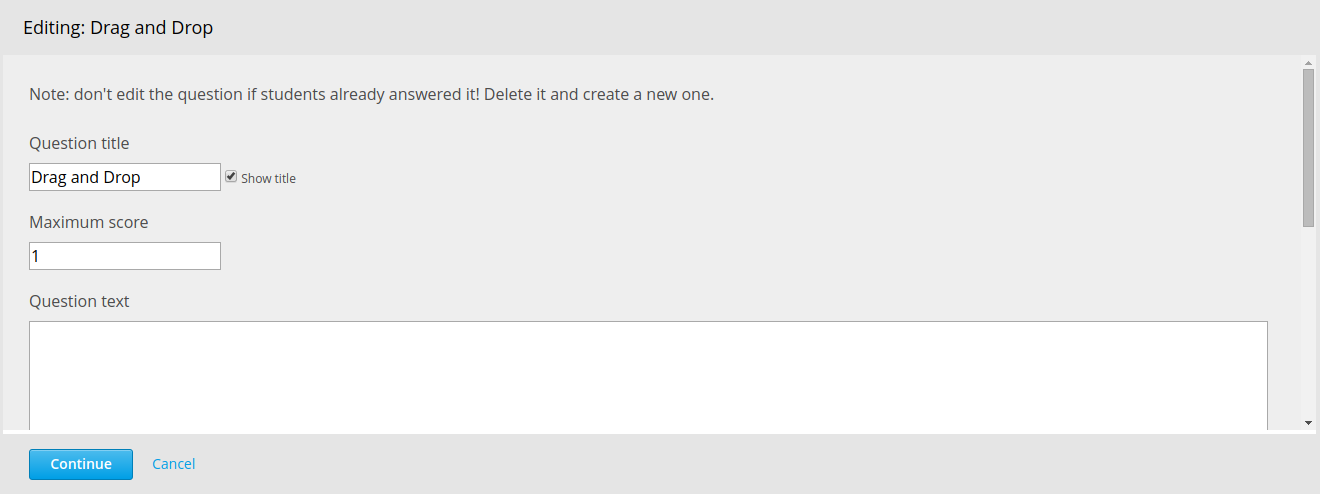
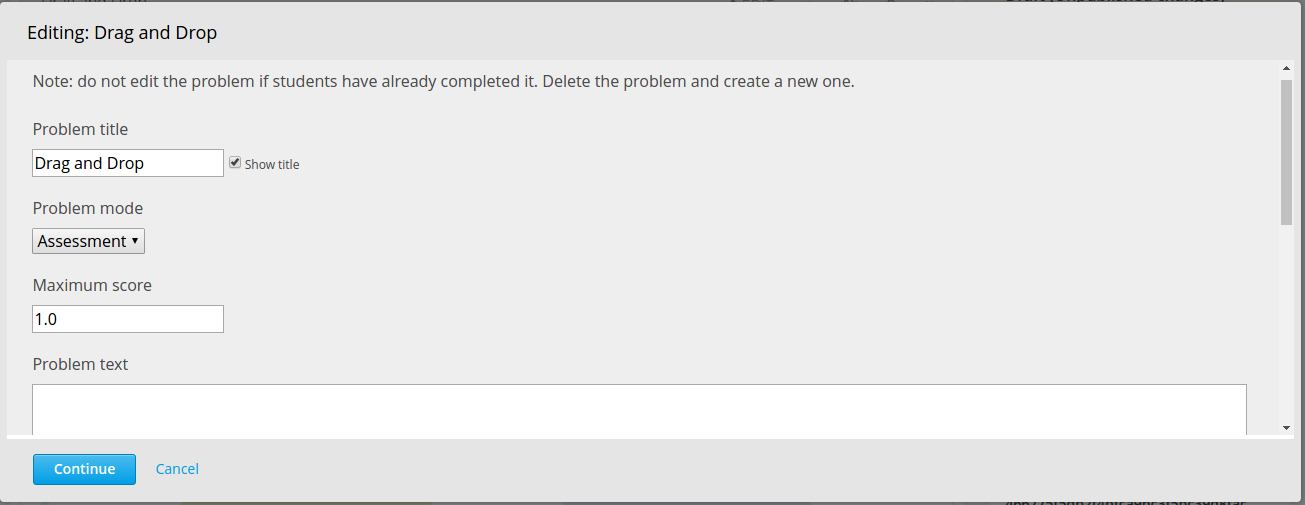
Problem mode field and edit capabilities

diff --git a/drag_and_drop_v2/templates/html/drag_and_drop_edit.html b/drag_and_drop_v2/templates/html/drag_and_drop_edit.html
@@ -21,6 +21,16 @@
                       <span class="sr">{{ help_texts.show_title }}</span>
                     </label>
 
+                    <label class="h3" for="problem-mode" title="{{ help_texts.mode }}">{% trans "Problem mode" %}</label>
+                    <select id="problem-mode">
+                        {% for field_value in field_values.mode %}
+                            <option value="{{ field_value.value }}" {% if self.mode == field_value.value %}selected{% endif %}>
+                                {{ field_value.display_name }}
+                            </option>
+                        {% endfor %}
+                    </select>
+                    <span class="sr">{{ help_texts.mode }}</span>
+
                     <label class="h3" for="weight">{% trans "Maximum score" %}</label>
                     <input id="weight" type="number" step="0.1" value="{{ self.weight|unlocalize }}" />
 

diff --git a/drag_and_drop_v2/public/js/drag_and_drop_edit.js b/drag_and_drop_v2/public/js/drag_and_drop_edit.js
@@ -491,6 +491,7 @@ function DragAndDropEditBlock(runtime, element, params) {
 
                         var data = {
                             'display_name': $element.find('#display-name').val(),
+                            'mode': $element.find("#problem-mode").val(),
                             'show_title': $element.find('.show-title').is(':checked'),
                             'weight': $element.find('#weight').val(),
                             'problem_text': $element.find('#problem-text').val(),

diff --git a/drag_and_drop_v2/drag_and_drop_v2.py b/drag_and_drop_v2/drag_and_drop_v2.py
@@ -32,11 +32,28 @@ class DragAndDropBlock(XBlock, XBlockWithSettingsMixin, ThemableXBlockMixin):
     """
     XBlock that implements a friendly Drag-and-Drop problem
     """
+    STANDARD_MODE = "standard"
+    ASSESSMENT_MODE = "assessment"
+
     display_name = String(
         display_name=_("Title"),
         help=_("The title of the drag and drop problem. The title is displayed to learners."),
         scope=Scope.settings,
         default=_("Drag and Drop"),
+    )
+
+    mode = String(
+        display_name=_("Mode"),
+        help=_(
+            "Standard mode: feedback is provided to learner right after an item is dropped to a zone. "
+            "Assessment mode: learner must place all the items to zones to see the feedback."
+        ),
+        scope=Scope.settings,
+        values=[
+            {"display_name": _("Standard"), "value": STANDARD_MODE},
+            {"display_name": _("Assessment"), "value": ASSESSMENT_MODE},
+        ],
+        default=STANDARD_MODE
     )
 
     show_title = Boolean(
@@ -185,9 +202,14 @@ class DragAndDropBlock(XBlock, XBlockWithSettingsMixin, ThemableXBlockMixin):
             field_name: self.ugettext(field.help)
             for field_name, field in self.fields.viewitems() if hasattr(field, "help")
         }
+        field_values = {
+            field_name: field.values
+            for field_name, field in self.fields.viewitems() if hasattr(field, "values")
+        }
         context = {
             'js_templates': js_templates,
             'help_texts': help_texts,
+            'field_values': field_values,
             'self': self,
             'data': urllib.quote(json.dumps(self.data)),
         }
@@ -220,6 +242,7 @@ class DragAndDropBlock(XBlock, XBlockWithSettingsMixin, ThemableXBlockMixin):
     @XBlock.json_handler
     def studio_submit(self, submissions, suffix=''):
         self.display_name = submissions['display_name']
+        self.mode = submissions['mode']
         self.show_title = submissions['show_title']
         self.question_text = submissions['problem_text']
         self.show_question_header = submissions['show_problem_header']

diff --git a/tests/unit/test_basics.py b/tests/unit/test_basics.py
@@ -1,5 +1,6 @@
 import unittest
 
+from drag_and_drop_v2.drag_and_drop_v2 import DragAndDropBlock
 from drag_and_drop_v2.default_data import (
     TARGET_IMG_DESCRIPTION, TOP_ZONE_ID, MIDDLE_ZONE_ID, BOTTOM_ZONE_ID,
     START_FEEDBACK, FINISH_FEEDBACK, DEFAULT_DATA
@@ -97,6 +98,7 @@ class BasicTests(TestCaseMixin, unittest.TestCase):
     def test_studio_submit(self):
         body = {
             'display_name': "Test Drag & Drop",
+            'mode': DragAndDropBlock.ASSESSMENT_MODE,
             'show_title': False,
             'problem_text': "Problem Drag & Drop",
             'show_problem_header': False,
@@ -111,6 +113,7 @@ class BasicTests(TestCaseMixin, unittest.TestCase):
         self.assertEqual(res, {'result': 'success'})
 
         self.assertEqual(self.block.show_title, False)
+        self.assertEqual(self.block.mode, DragAndDropBlock.ASSESSMENT_MODE)
         self.assertEqual(self.block.display_name, "Test Drag & Drop")
         self.assertEqual(self.block.question_text, "Problem Drag & Drop")
         self.assertEqual(self.block.show_question_header, False)

diff --git a/README.md b/README.md
@@ -97,10 +97,10 @@ and Drop component to a lesson, then click the `EDIT` button.
 ![Edit view](https://raw.githubusercontent.com/edx-solutions/xblock-drag-and-drop-v2/c955a38dc3a1aaf609c586d293ce19b282e11ffd/doc/img/edit-view.png)
 
 In the first step, you can set some basic properties of the component,
-such as the title, the maximum score, the problem text to render
-above the background image, the introductory feedback (shown
+such as the title, problem mode (Standard vs. Assessment), the maximum score, 
+the problem text to render above the background image, the introductory feedback (shown
 initially), and the final feedback (shown after the learner
-successfully completes the drag and drop problem).
+successfully completes the drag and drop problem). 
 
 ![Drop zone edit](https://raw.githubusercontent.com/edx-solutions/xblock-drag-and-drop-v2/ebd0b52d971bbf93b9c3873f310bd72d336d865b/doc/img/edit-view-zones.png)
 
